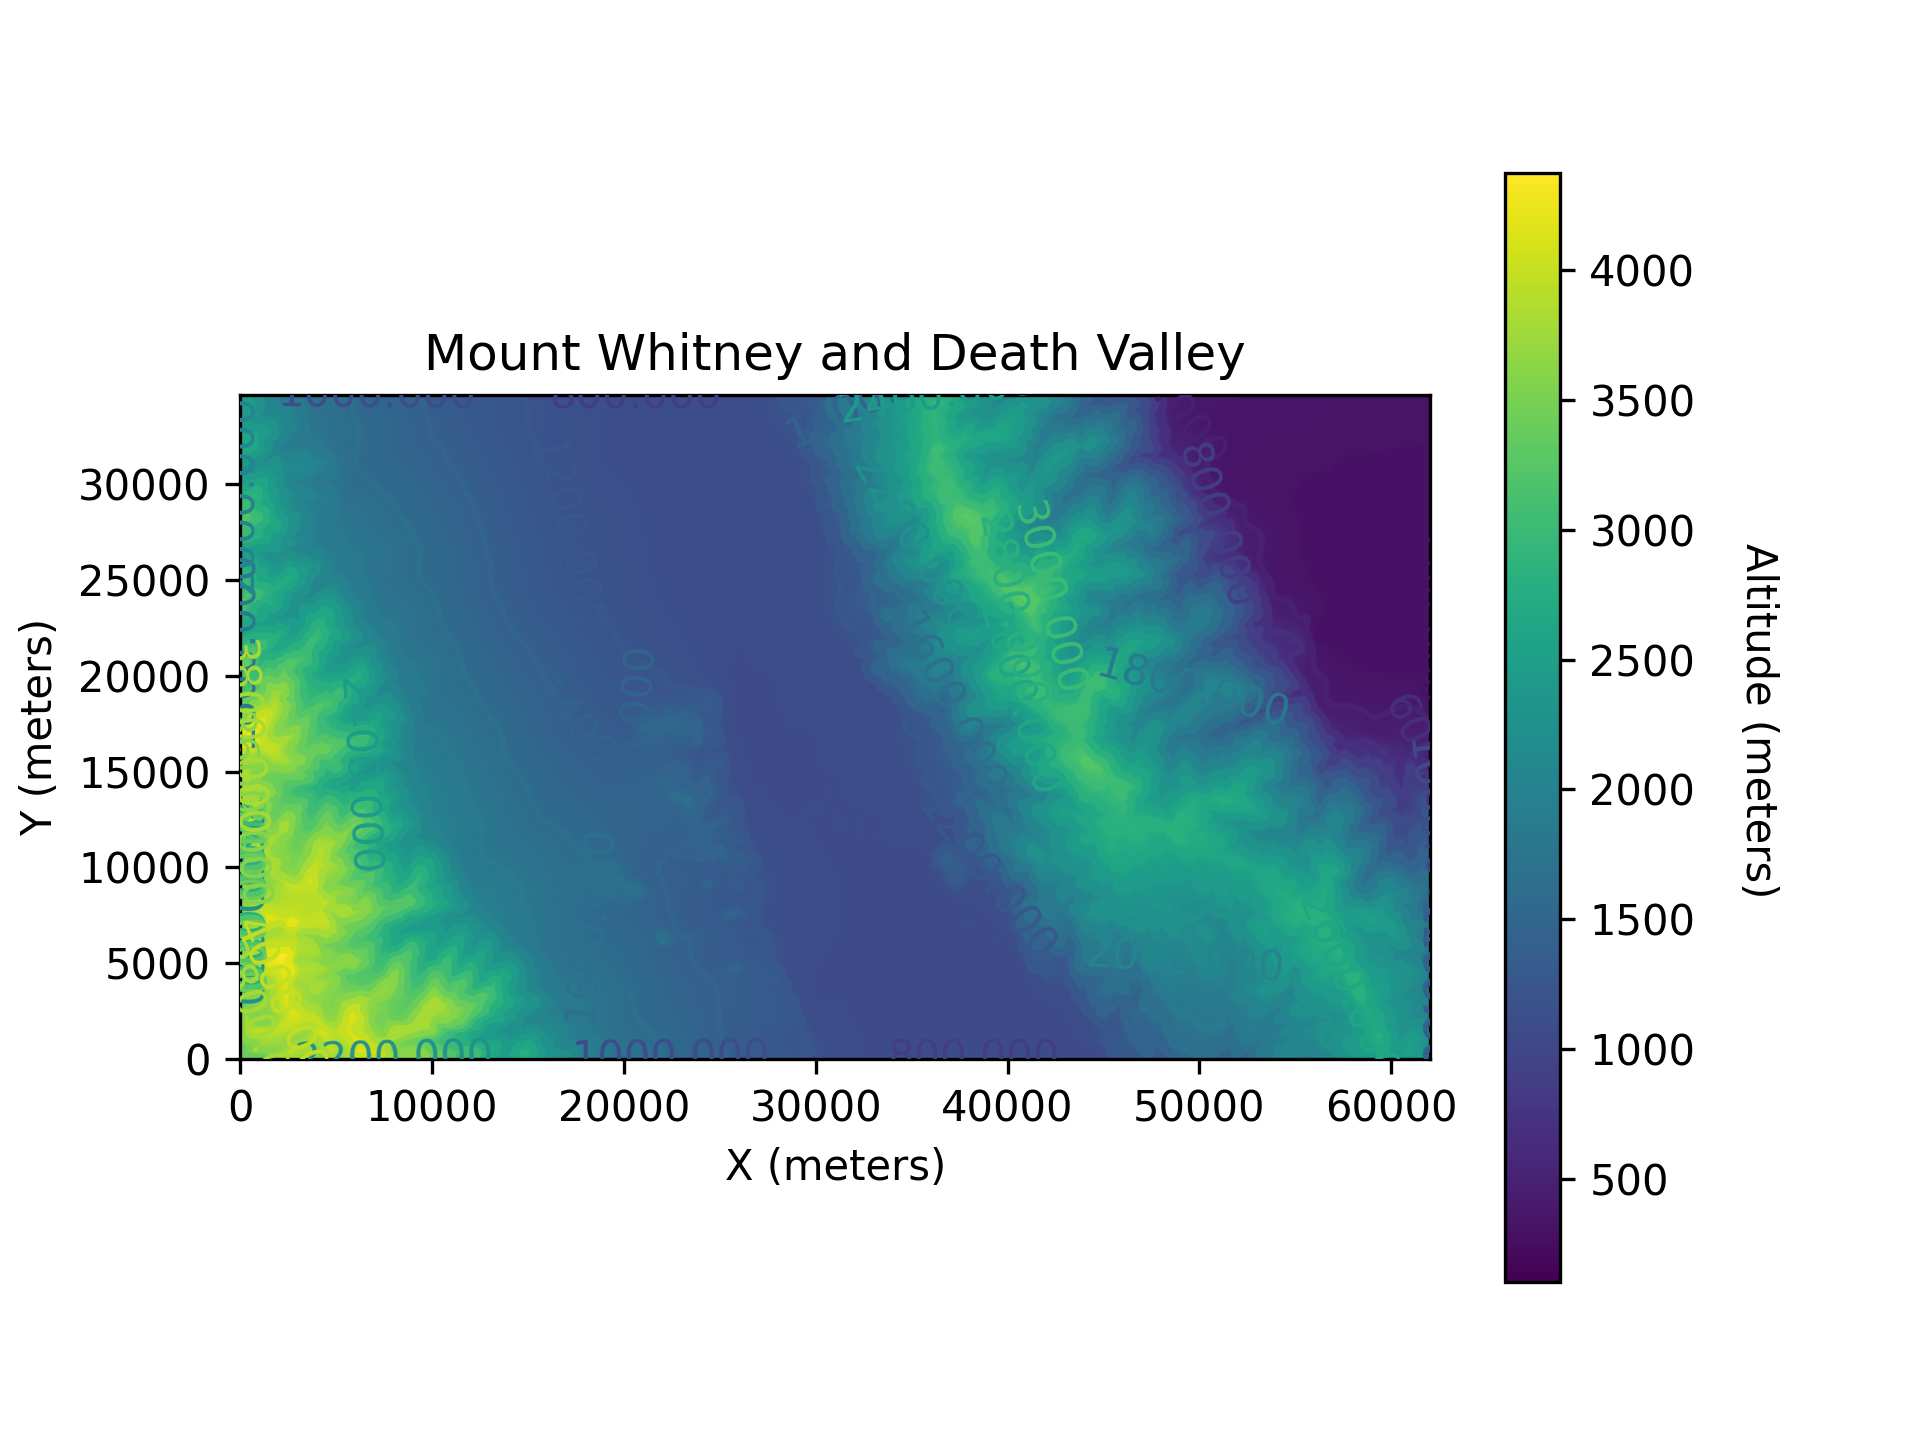
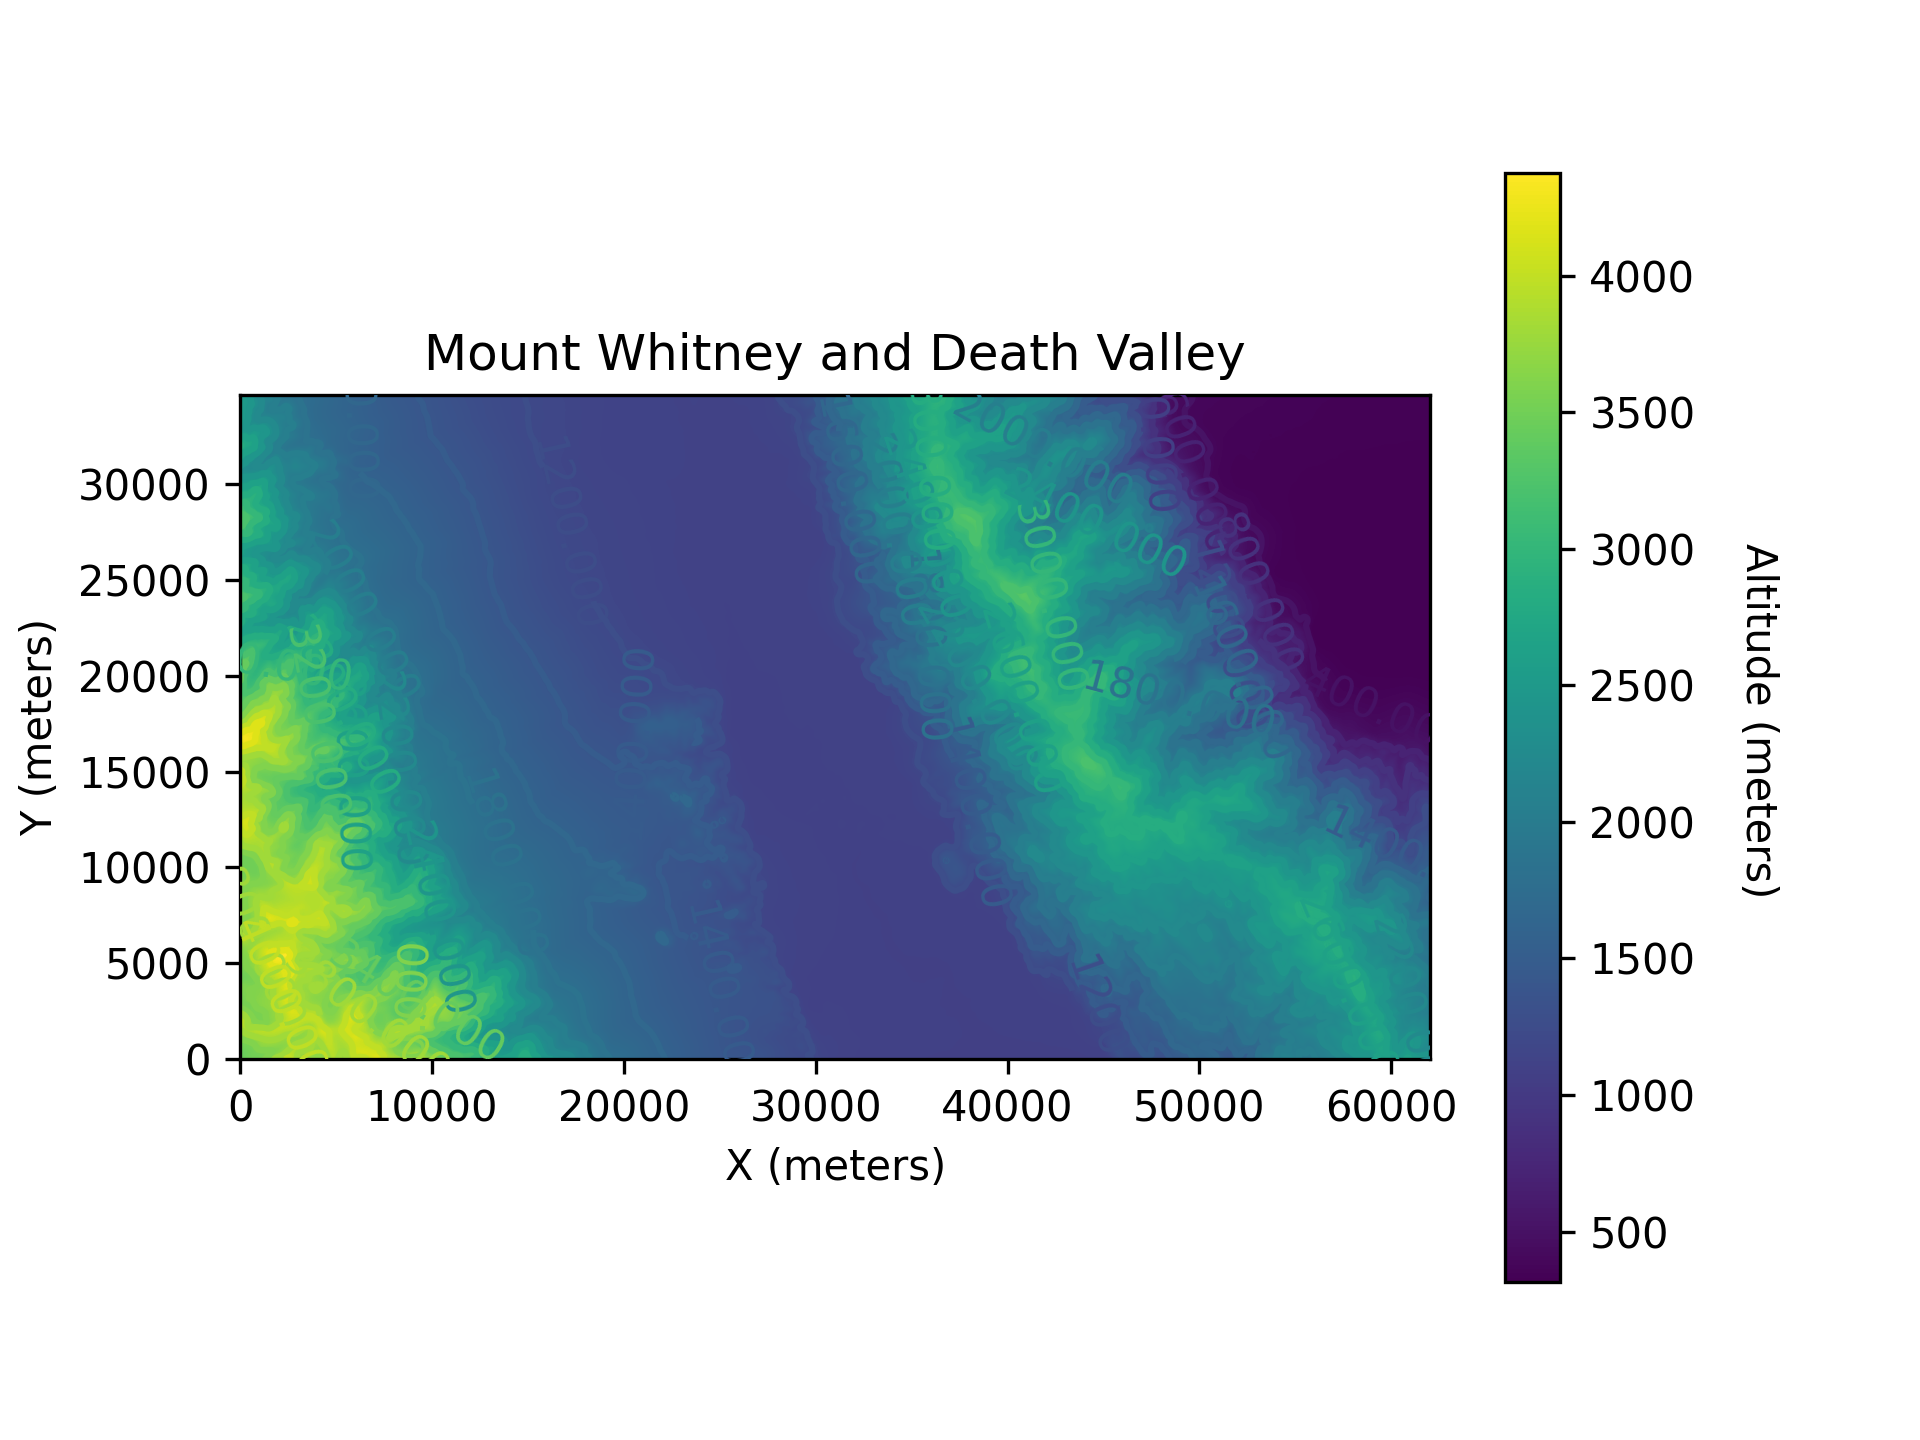
util fixed

diff --git a/util.py b/util.py
@@ -135,7 +135,7 @@ class Map():
         z = np.asarray(grayscale_img)
         z = z*((z_max - z_min)/255) + z_min*np.ones(np.shape(z))
         sigma = [4.5,4.5]
-        self.Z = sp.ndimage.filters.gaussian_filter(z, sigma, mode='constant')
+        self.Z = sp.ndimage.filters.gaussian_filter(z, sigma, mode='nearest')
         
         #computing scaling factor from index to meters
         dim = np.shape(self.Z)
